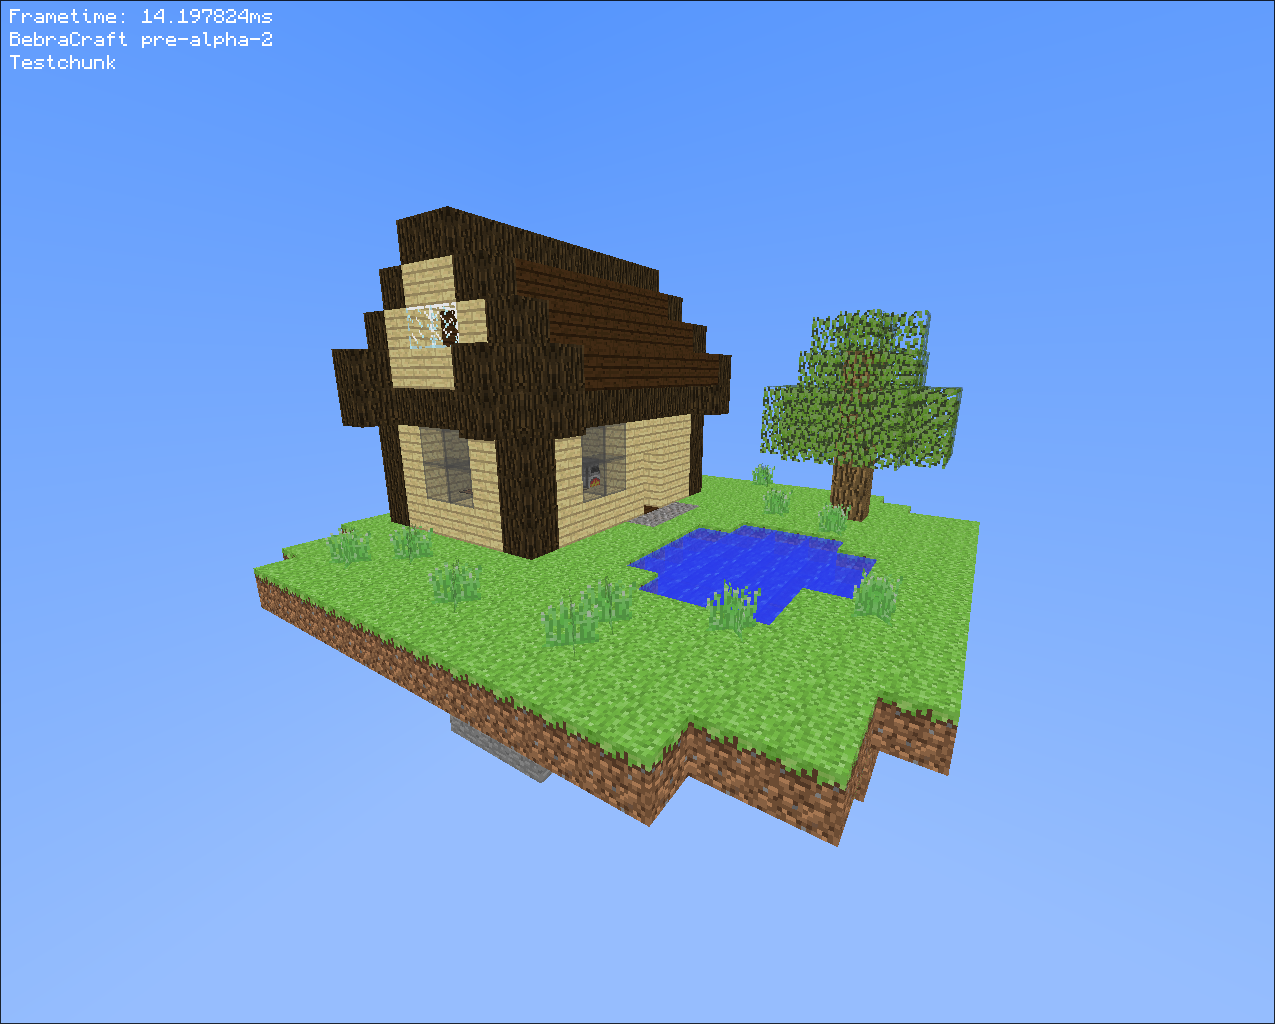
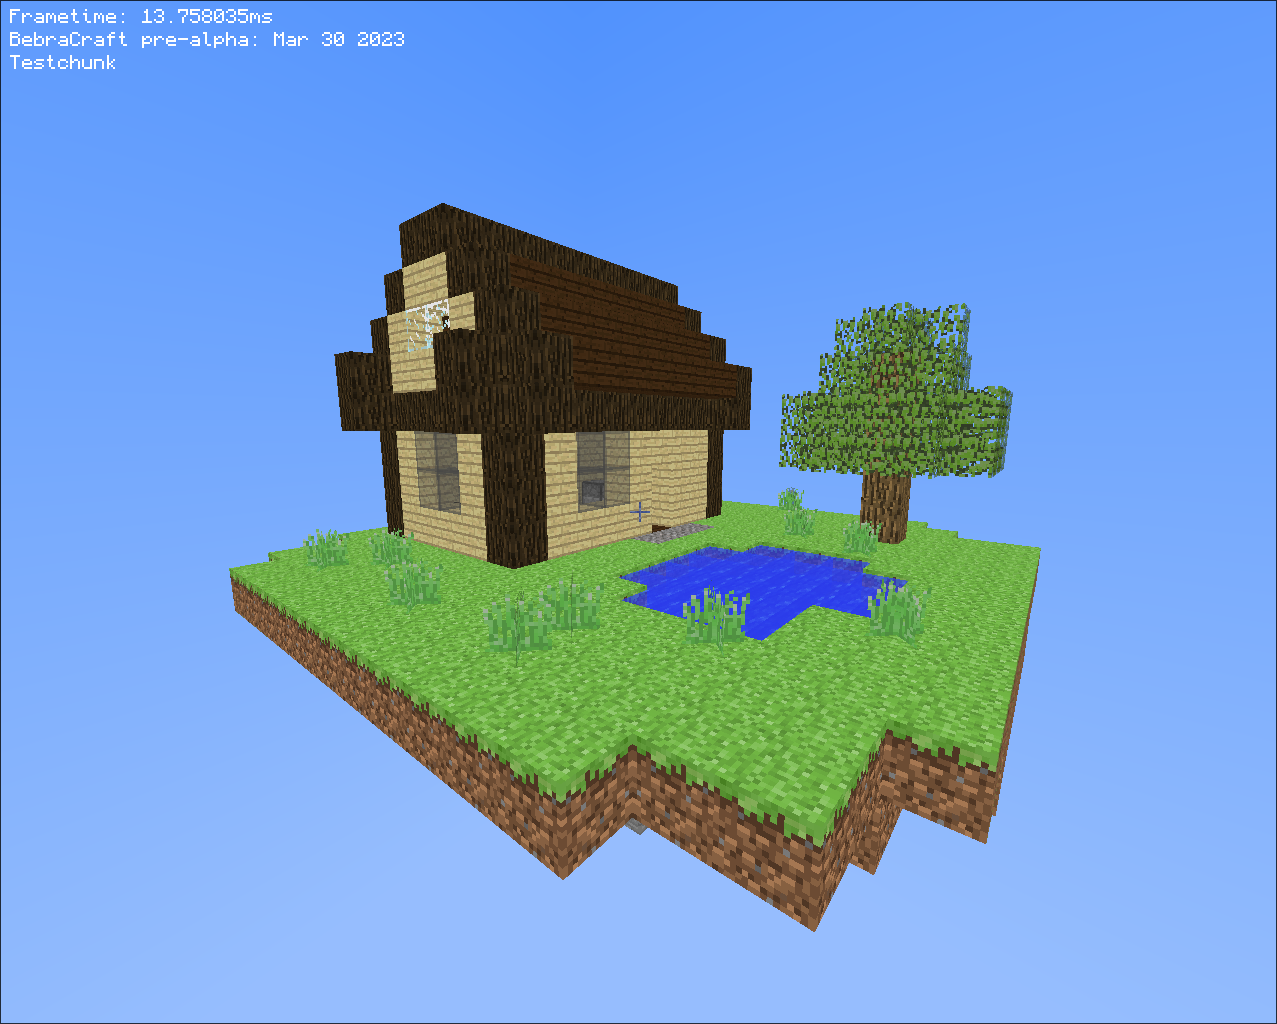
Versioning changes

Changed region(s): [[0.1835, 0.1875, 0.8259, 0.9062], [0.1224, 0.0, 0.3059, 0.0625]]

diff --git a/src/game/game.cpp b/src/game/game.cpp
@@ -196,7 +196,7 @@ int main(int argc, char* argv[]) {
                 return float(window.mode.h) - ((float(std::max(text.width, text.height)) + 5.0) * (lineFromTop + 1));
             };
             text.render("Frametime: " + std::to_string(secondsElapsed * 1000.0f) + "ms", projectionFont, 10.0, topOffset(0));
-            text.render("BebraCraft pre-alpha-2", projectionFont, 10.0, topOffset(1));
+            text.render("BebraCraft pre-alpha: " + std::string(__DATE__), projectionFont, 10.0, topOffset(1));
             text.render("Testchunk", projectionFont, 10.0, topOffset(2));
         }
 
